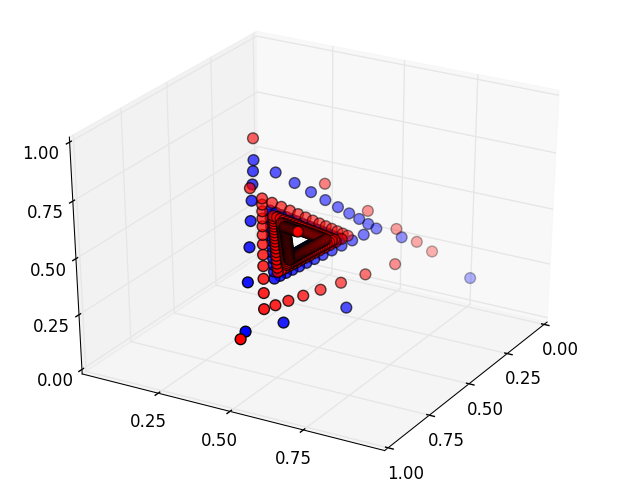
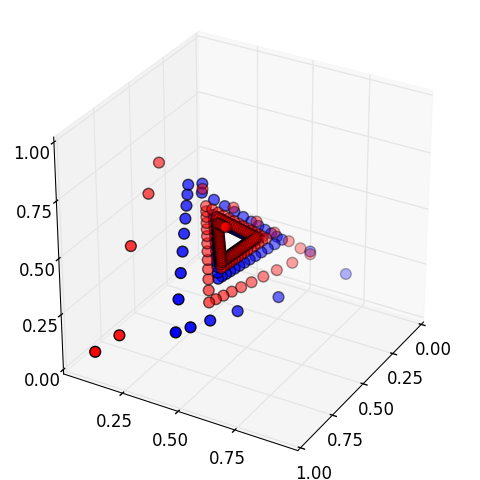
fictplay_shapley and fictplay_RPS merged in fictplay3x3

diff --git a/fictplay3x3.py b/fictplay3x3.py
@@ -1,0 +1,76 @@
+from mpl_toolkits.mplot3d import Axes3D
+import matplotlib.pyplot as plt
+from fictplay import *
+
+# 0: Shapley game, 1: Rock-Paper-Scissors
+GAME = 1
+
+MULT_SUBPLOTS = True
+
+SAVEFILE = True
+FILNENAME_BASE = ('fictplay_shapley', 'fictplay_RPS')[GAME]
+if MULT_SUBPLOTS:
+    FILNENAME_BASE = FILNENAME_BASE + '_mult'
+# FILEFORMATS = ('png', 'svg', 'pdf')
+FILEFORMAT = 'png'
+
+SHAPLEY_GAME = [[(1, 0), (0, 0), (0, 1)],
+                [(0, 1), (1, 0), (0, 0)],
+                [(0, 0), (0, 1), (1, 0)]]
+
+a, b = 1, 1
+RPS = [[ 0, -b,  a],
+       [ a,  0, -b],
+       [-b,  a,  0]]
+
+games = (SHAPLEY_GAME, RPS)
+
+T = (250, 150)[GAME]
+T_0 = 0
+
+g = NormalFormGame_2P(games[GAME])
+players = FictitiousPlayUpdatingPlayers(g)
+fp = FictitiousPlay(players)
+
+values = np.empty([2, 3, T])
+for t, beliefs in enumerate(fp(T)):
+    values[:, :, t] = beliefs
+
+
+def customize_ax(ax):
+    ax.set_xlim(0, 1)
+    ax.set_ylim(0, 1)
+    ax.set_zlim(0, 1)
+    ax.set_xticks((0, 0.25, 0.5, 0.75, 1))
+    ax.set_yticks((0.25, 0.5, 0.75))
+    ax.set_zticks((0, 0.25, 0.5, 0.75, 1))
+    ax.set_aspect('equal')
+    ax.view_init(ax.elev, ax.azim+90)
+
+
+fig = plt.figure()
+colors = ['b', 'r']
+
+if MULT_SUBPLOTS:
+    axes = []
+    for player, color in zip(players.players, colors):
+        axes.append(fig.add_subplot(1, 2, player+1, projection='3d'))
+        axes[player].scatter(values[player][0][T_0:],
+                             values[player][1][T_0:],
+                             values[player][2][T_0:],
+                             c=color, s=60)
+        customize_ax(axes[player])
+else:
+    ax = fig.add_subplot(111, projection='3d')
+    for player, color in zip(players.players, colors):
+        ax.scatter(values[player][0][T_0:],
+                   values[player][1][T_0:],
+                   values[player][2][T_0:],
+                   c=color, s=60)
+    customize_ax(ax)
+
+if SAVEFILE:
+    TRANS = (FILEFORMAT.lower() in ['png', 'svc'])
+    plt.savefig(FILNENAME_BASE + '.' + FILEFORMAT.lower(),
+                transparent=TRANS, bbox_inches='tight', pad_inches=0)
+plt.show()

diff --git a/README.md b/README.md
@@ -4,7 +4,8 @@ fictplay
 Simulating fictitious play
 
 Rock-Paper-Scissors:
-![Rock-Paper-Scissors](fictplay_RPS.png)
+![Rock-Paper-Scissors](fictplay_RPS_mult.png)
 
 Shapley's example:
 ![Shapley's example](fictplay_shapley.png)
+![Shapley's example](fictplay_shapley_mult.png)
